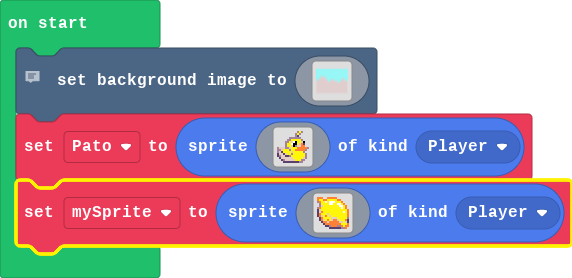
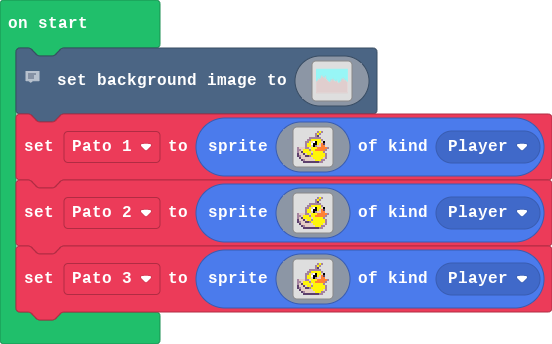
Update main.blocks, main.ts

diff --git a/main.ts b/main.ts
@@ -121,7 +121,7 @@ scene.setBackgroundImage(img`
     dddddddddddddddddddddddddddddddddddddddddddddddddddddddddddddddddddddddddddddddddddddddddddddddddddddddddddddddddddddddddddddddddddddddddddddddddddddddddddddddd
     dddddddddddddddddddddddddddddddddddddddddddddddddddddddddddddddddddddddddddddddddddddddddddddddddddddddddddddddddddddddddddddddddddddddddddddddddddddddddddddddd
     `)
-let Pato = sprites.create(img`
+let Pato_1 = sprites.create(img`
     . . . . . . . . . . b 5 b . . . 
     . . . . . . . . . b 5 b . . . . 
     . . . . . . . . . b c . . . . . 
@@ -139,21 +139,39 @@ let Pato = sprites.create(img`
     . . c b d d d d d 5 5 5 b b . . 
     . . . c c c c c c c c b b . . . 
     `, SpriteKind.Player)
-let mySprite = sprites.create(img`
-    4 4 4 . . 4 4 4 4 4 . . . . . . 
-    4 5 5 4 4 5 5 5 5 5 4 4 . . . . 
-    b 4 5 5 1 5 1 1 1 5 5 5 4 . . . 
-    . b 5 5 5 5 1 1 5 5 1 1 5 4 . . 
-    . b d 5 5 5 5 5 5 5 5 1 1 5 4 . 
-    b 4 5 5 5 5 5 5 5 5 5 5 1 5 4 . 
-    c d 5 5 5 5 5 5 5 5 5 5 5 5 5 4 
-    c d 4 5 5 5 5 5 5 5 5 5 5 1 5 4 
-    c 4 5 5 5 d 5 5 5 5 5 5 5 5 5 4 
-    c 4 d 5 4 5 d 5 5 5 5 5 5 5 5 4 
-    . c 4 5 5 5 5 d d d 5 5 5 5 5 b 
-    . c 4 d 5 4 5 d 4 4 d 5 5 5 4 c 
-    . . c 4 4 d 4 4 4 4 4 d d 5 d c 
-    . . . c 4 4 4 4 4 4 4 4 5 5 5 4 
-    . . . . c c b 4 4 4 b b 4 5 4 4 
-    . . . . . . c c c c c c b b 4 . 
+let Pato_2 = sprites.create(img`
+    . . . . . . . . . . b 5 b . . . 
+    . . . . . . . . . b 5 b . . . . 
+    . . . . . . . . . b c . . . . . 
+    . . . . . . b b b b b b . . . . 
+    . . . . . b b 5 5 5 5 5 b . . . 
+    . . . . b b 5 d 1 f 5 5 d f . . 
+    . . . . b 5 5 1 f f 5 d 4 c . . 
+    . . . . b 5 5 d f b d d 4 4 . . 
+    b d d d b b d 5 5 5 4 4 4 4 4 b 
+    b b d 5 5 5 b 5 5 4 4 4 4 4 b . 
+    b d c 5 5 5 5 d 5 5 5 5 5 b . . 
+    c d d c d 5 5 b 5 5 5 5 5 5 b . 
+    c b d d c c b 5 5 5 5 5 5 5 b . 
+    . c d d d d d d 5 5 5 5 5 d b . 
+    . . c b d d d d d 5 5 5 b b . . 
+    . . . c c c c c c c c b b . . . 
+    `, SpriteKind.Player)
+let Pato_3 = sprites.create(img`
+    . . . . . . . . . . b 5 b . . . 
+    . . . . . . . . . b 5 b . . . . 
+    . . . . . . . . . b c . . . . . 
+    . . . . . . b b b b b b . . . . 
+    . . . . . b b 5 5 5 5 5 b . . . 
+    . . . . b b 5 d 1 f 5 5 d f . . 
+    . . . . b 5 5 1 f f 5 d 4 c . . 
+    . . . . b 5 5 d f b d d 4 4 . . 
+    b d d d b b d 5 5 5 4 4 4 4 4 b 
+    b b d 5 5 5 b 5 5 4 4 4 4 4 b . 
+    b d c 5 5 5 5 d 5 5 5 5 5 b . . 
+    c d d c d 5 5 b 5 5 5 5 5 5 b . 
+    c b d d c c b 5 5 5 5 5 5 5 b . 
+    . c d d d d d d 5 5 5 5 5 d b . 
+    . . c b d d d d d 5 5 5 b b . . 
+    . . . c c c c c c c c b b . . . 
     `, SpriteKind.Player)
